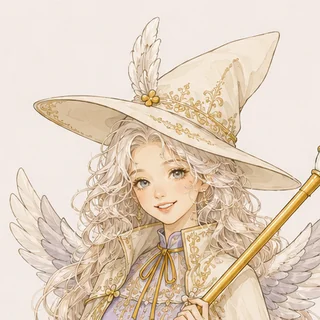
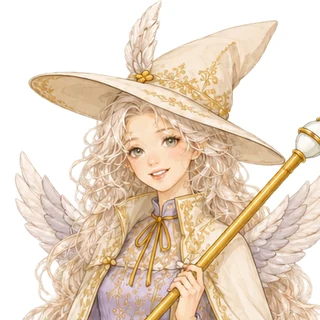
全身像を回り込みレイアウトにして余白を解消し、白い魔法使いの絵を差し替え (#117)
* 全身像を回り込みレイアウトにして、画像の下の余白を無くす

2カラムのグリッドでは本文の列の方が縦に長く、その差がそのまま全身像の下の余白になっていた
(モバイル約345px・PC約123px)。全身像を float で左に回り込ませ、本文が画像の下まで続くように
変更。float の高さが親に伝わるよう .dossier は display:flow-root。スマホだけ「あなたの性格の
強み」を clear して全幅に戻す(横幅が狭く、画像の横だと1行が数文字になるため)。

Claude-Session: https://claude.ai/code/session_01SHntxLNafWrjFyzX594gth

* 白い魔法使い(女性)の絵を差し替え、拡大調整を解除する

帽子を控えめにした描き直し版を受領したので素材を差し替え、生成スクリプトで全身像・上半身像を
作り直した。顔の中心の位置は画像の高さの約16%から約10.5%になり(青い猿は約7%、赤い竜は約8%)、
暫定で入れていた1.08倍の拡大(CUTOUT_ZOOM)は解除した。生成スクリプトの対象外である丸いアイコン用
の顔画像(faces/seal-13.webp)も新しい絵から切り出し直した。
依頼時に使ったプロンプトを docs/ に残す。

Claude-Session: https://claude.ai/code/session_01SHntxLNafWrjFyzX594gth

---------

diff --git a/assets/css/paper-theme.css b/assets/css/paper-theme.css
@@ -256,20 +256,20 @@ html, body { overflow-x: hidden; overscroll-behavior-x: none; }
 /* column-gap/row-gap split deliberately (not the `gap` shorthand) — the row gap between
    dossier__main and dossier__strength must stay near-zero since dossier__strength (being a
    .block) already carries its own margin-top; using `gap` for both made the two stack. */
-.dossier { display: grid; grid-template-columns: minmax(160px, 260px) 1fr; column-gap: 30px; row-gap: 0; align-items: start; max-width: 720px; margin-left: auto; margin-right: auto; }
-@media (min-width: 1000px) { .dossier { grid-template-columns: minmax(220px, 320px) 1fr; column-gap: 44px; } }
-/* Portrait spans both rows of the 2-row grid (dossier__main in row 1, dossier__strength in row
-   2) so 性格の強み sits to the right of the image like dossier__main above it, not full-width —
-   grid-column:2 on dossier__strength is what keeps it out of the (portrait-occupied) first
-   column, since without it auto-placement would wrap back to column 1 in the next row. */
+.dossier { display: flow-root; max-width: 720px; margin-left: auto; margin-right: auto; }
+/* 全身像は左に回り込ませ(float)、本文はその右から始まって画像の下まで続く。2カラムの
+   グリッドだった頃は本文の列の方が縦に長く、その差がそのまま画像の下の余白になっていた
+   (2026-09-22指摘。モバイルで約345px・PCで約123px)。回り込みなら余白が出ない。
+   .dossier に display:flow-root を入れているのは、float した画像の高さを親に伝えるため
+   (本文が短いKINで画像が次のセクションへはみ出すのを防ぐ)。 */
 /* 枠の縦横比をカットアウト画像そのものに合わせる(全キャラクター共通の 640:925 =
    scripts/generateSealCutouts.py が揃えている比率)。以前は高さを固定値(347/454/559px)で
    与えていたが、画像は幅で頭打ちになるため高さが余り、その余白が常にキャラクターの「上側」に
    出ていた(2026-09-22指摘。モバイルで約103px、PCで約97px)。比率を合わせれば contain でも
    余白が生じない。全キャラクターが同じ比率なので、「どの絵も同じ箱に収まる」性質は変わらない。 */
-.dossier__portrait { grid-row: 1 / span 2; aspect-ratio: 640 / 925; overflow: hidden; }
+.dossier__portrait { float: left; width: 36%; margin: 0 30px 12px 0; aspect-ratio: 640 / 925; overflow: hidden; }
+@media (min-width: 1000px) { .dossier__portrait { width: 44%; margin-right: 44px; } }
 .dossier__portrait img { width: 100%; height: 100%; object-fit: contain; object-position: bottom center; display: block; }
-.dossier__strength { grid-column: 2; }
 .dossier__headrow { display: flex; align-items: baseline; gap: 10px; flex-wrap: wrap; }
 .dossier__name { font-size: 27px; }
 .dossier__badge { font-size: 11.5px; font-weight: 700; letter-spacing: .06em; padding: 3px 11px; border-radius: 999px; border: 1px solid var(--gold); color: var(--gold-deep); white-space: nowrap; }
@@ -281,10 +281,14 @@ html, body { overflow-x: hidden; overscroll-behavior-x: none; }
 @media (max-width: 600px) {
   /* Extra breathing room below the section title, beyond .section's own padding-top — same
      treatment as .relwrap's mobile margin-top for KINの関係性. */
-  .dossier { grid-template-columns: 1fr 1fr; gap: 12px; margin-top: 14px; }
-  /* 高さは上の aspect-ratio 任せ(画像と同じ比率)。ここでは配置だけ変える。 */
-  .dossier__portrait { grid-row: 1; }
-  .dossier__strength { grid-column: 1 / -1; }
+  /* スマホは2カラムのグリッドをやめ、全身像を左に回り込ませる(float)。グリッドのままだと
+     本文の列の方が縦に長く、その差がそのまま画像の下の余白になっていた(2026-09-22指摘。
+     モバイルで約345px)。回り込みなら本文が画像の下まで続くので、上にも下にも余白が出ない。 */
+  .dossier { margin-top: 14px; }
+  .dossier__portrait { width: 48%; margin: 0 14px 8px 0; }
+  /* スマホだけ「あなたの性格の強み」の回り込みを解除して全幅に戻す(横幅が狭く、
+     画像の横に置くと1行が数文字になってしまうため)。 */
+  .dossier__strength { clear: both; }
   .dossier__name { font-size: 20px; }
   .dossier__badge { font-size: 9.5px; padding: 2px 8.5px; }
   .dossier__catch { font-size: 12.5px; line-height: 1.75; margin: 5px 0 16px; }

diff --git a/scripts/generateSealCutouts.py b/scripts/generateSealCutouts.py
@@ -70,8 +70,9 @@ MAX_CUTOUT_WIDTH = 640
 # 同じ寸法に戻す。足元は動かさない(下寄せで表示しているため、動かすと並んだときにずれる)。
 # キーは (sealIndex, suffix)。'' が女性、'-male' が男性。
 # 1.08 は白い魔法使い(女性)の顔の高さが他のキャラクターと揃う値(帽子はほぼ切れない)。
-CUTOUT_ZOOM = {
-    (13, ''): 1.08,  # 白い魔法使い(女性) — つば広帽子・翼・長い裾で人物が小さく描かれている
+CUTOUT_ZOOM: dict[tuple[int, str], float] = {
+    # 2026-09-22: 白い魔法使い(女性)は 1.08 倍で暫定対応していたが、帽子を控えめにした
+    # 描き直し版に差し替えたため解除した。再び必要になったらここに足す。
 }
 
 

diff --git a/docs/白い魔法使い_描き直し依頼プロンプト.md b/docs/白い魔法使い_描き直し依頼プロンプト.md
@@ -1,0 +1,55 @@
+# 白い魔法使い（女性）イラスト再依頼用プロンプト
+
+添付：現在の「白い魔法使い（女性）」の画像と、比較用の他キャラクター（青い猿／赤い竜）の画像
+
+---
+
+## そのまま使える指示文
+
+```
+添付した「白い魔法使い（女性）」のキャラクターを、同じデザイン・同じ画風で描き直してください。
+変更するのは「顔の大きさと位置」だけで、キャラクターの特徴（衣装・髪色・持ち物・雰囲気）は
+そのまま保ってください。
+
+【今回の修正点】
+・他のキャラクター（添付の青い猿・赤い竜を参照）と比べて、顔が小さく、位置が低い。
+　原因は、つば広帽子が頭の上に大きく乗っていて、そのぶん体と顔が小さく描かれていること。
+・他のキャラクターと同じ「顔の大きさ」「顔の高さ」に揃えてください。
+
+【具体的な指定】
+1. 画像の一番上＝帽子の先、一番下＝靴の底。上下に余白を作らない。
+2. 画像の高さを100%としたとき、
+   ・帽子の先から頭（髪の上端）までが 5% 以内（今は約7%）
+   ・頭（髪の上端）からあご先までが 約10%（今は約9%）
+   ・顔の中心（目の高さ）が上から 約13%（今は約16%）
+   ※比較用の青い猿・赤い竜がこの比率です。
+3. 帽子は、つばを今より控えめにするか、頭に沿わせて上への張り出しを小さくしてください。
+   帽子のデザイン自体（形の印象・装飾）は変えないでください。
+4. 背中の翼と裾は、今より横に広げず、全身のシルエットを縦長に保ってください。
+5. ポーズ・向き・表情は今の絵と同じで構いません。
+
+【納品仕様】
+・背景は透明（PNG）
+・全身が入ること。頭・手・杖・足が切れないこと。
+・縦横比は 640 : 925（縦長）。この比率ちょうどで、左右に必要な余白は透明で構いません。
+・サイズは 1280×1850 ピクセル以上
+・線・塗り・質感は他のキャラクターと同じ水彩調で統一してください。
+```
+
+---
+
+## 補足（依頼先に伝えると精度が上がる情報）
+
+- **なぜ揃える必要があるか**：サイトでは「太陽の紋章」と「ウェイブスペル」の2体を横に並べて表示します。
+  全員を「帽子の先から靴の底まで」が同じ高さになるよう自動で拡大縮小しているため、頭の上の装飾が
+  大きいキャラクターだけ顔が小さく・低く見えてしまいます。
+- **現状の数値**（画像の高さを100%としたときの位置）
+
+  | | 白い魔法使い（現在） | 青い猿 | 赤い竜 |
+  |---|---|---|---|
+  | 帽子・髪飾りの先 → 頭（髪の上端） | 約7% | 約1% | 約2% |
+  | 頭（髪の上端）→ あご先 | 約9% | 約10% | 約11% |
+  | 目の高さ（上から） | 約16% | 約12% | 約13% |
+
+- **今はサイト側で1.08倍に拡大して調整しています。** 描き直した画像に差し替えたら、この拡大は外します。
+- 描き直しが難しい場合は、「帽子だけ小さくした版」でも改善します。
